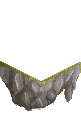
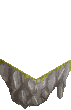
shadows and edge (#29)

Changed region(s): [[0.0, 0.4909, 1.0, 1.0]]

diff --git a/src/map.rs b/src/map.rs
@@ -255,10 +255,28 @@ impl GameMap {
     }
 
     pub fn draw(state: &PlayingState, data: &Data, ctx: &mut Context) -> GameResult<()> {
-        for x in state.map.xrange() {
-            for y in state.map.yrange() {
+
+        for y in state.map.yrange() {
+            for x in state.map.xrange() {
                 let tiletype = state.map.get_tile_type(x, y);
                 if tiletype != Empty {
+                    draw(
+                        ctx,
+                        data.get_i(&ImgID::TileShadow),
+                        DrawParam::default().dest(state.gui.cam().pos(GameMap::tile_pos(x, y)+Vector::new(150.0,150.0))),
+                    )?;
+                }
+            }
+        }
+        for y in state.map.yrange() {
+            for x in state.map.xrange() {
+                let tiletype = state.map.get_tile_type(x, y);
+                if tiletype != Empty {
+                    draw(
+                        ctx,
+                        data.get_i(&ImgID::RockEdge),
+                        DrawParam::default().dest(state.gui.cam().pos(GameMap::tile_pos(x, y))),
+                    )?;
                     draw(
                         ctx,
                         data.get_i(&state.map.images[&tiletype]),

diff --git a/src/assets.rs b/src/assets.rs
@@ -34,6 +34,8 @@ pub enum ImgID {
     Stone(usize),
     BackgroundWave(usize),
     BackgroundWater,
+    RockEdge,
+    TileShadow,
     Take2,
     Tree1,
     Tree2,
@@ -124,6 +126,8 @@ impl Data {
         self.load_img(ctx, BackgroundWave(3), "/sea_wave3.png")?;
         self.load_img(ctx, BackgroundWave(4), "/sea_wave4.png")?;
         self.load_img(ctx, BackgroundWater, "/sea_bg.png")?;
+        self.load_img(ctx, RockEdge, "/rock_edge.png")?;
+        self.load_img(ctx, TileShadow, "/tile_shadow.png")?;
 
         self.load_img(ctx, Take2, "/take_2.png")?;
         self.load_img(ctx, Tree1, "/tree1.png")?;
